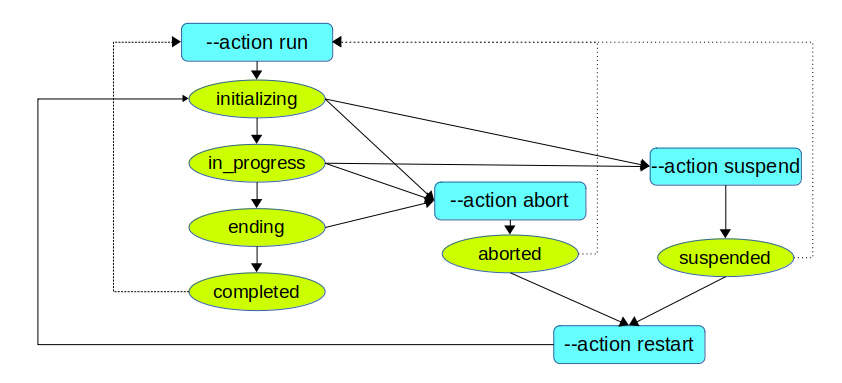
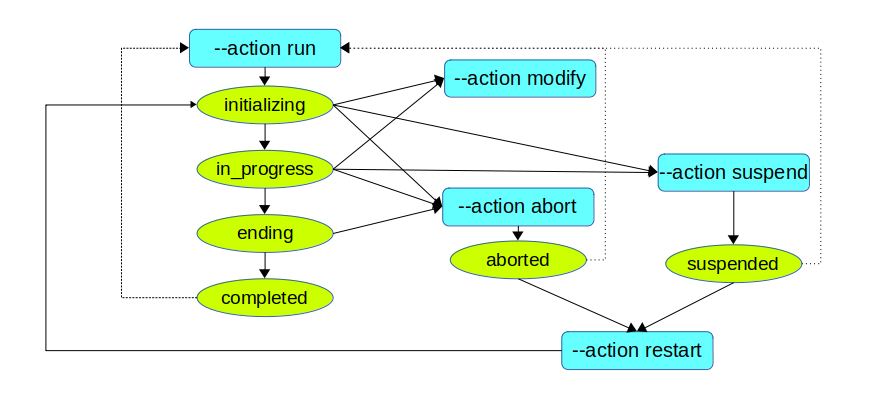
Add a 'modify' action to the scheduler. It allows to adjust some characteristics of a running batch: the maximum number of sessions, the number of sessions in cost ascending order and the comment. Setting the maximum number of sessions to 0 si equivalent to suspending the run.

diff --git a/doc/startScheduler.md b/doc/startScheduler.md
@@ -111,22 +111,17 @@ This chart shows the actions that can be performed on a batch run and its possib
 
 All these actions can be performed easily with the web client. The paragraphs below explain how to proceed in command line terminal.
 
-### Change the number of sessions
+### Change run characteristics
 
-There is no command to dynamically change the number of sessions of a running batch. But this can be achieved using a SQL statement. Once connected to the administration database, execute the following statement:
+The maximum number of sessions, the number of sessions in cost ascending order and/or the run comment can be modified while the run is in progress. To do this, just type the following command:
 
+```sh
+perl data2pg.pl --action modify ...
 ```
-SET search_path = \<data2pg_admin installation schema\>;
-UPDATE run SET run_max_sessions = s, run_asc_sessions = a WHERE run_id = iii;
-```
 
-Where:
+The new values can be set either in a modified configuration file or in the command line options (--sessions --asc_sessions and --comment), the later always overiding the former.
 
-  * s is the requested maximum number of sessions;
-  * a is the requested number of sessions with steps allocated in ascending cost order (with a <= s);
-  * iii is the run identifier.
-
-The scheduler reads this table every 30 seconds and adjusts the number of opened sessions if needed. If new sessions are requested, they are opened immediately. If the new maximum number of sessions is lower than the previous one, exceeding sessions will be closed once their current step is completed.
+The scheduler reads the information about the number of sessions every 30 seconds and adjusts the number of opened sessions if needed. Then, if new sessions are requested, they are opened immediately. If the new maximum number of sessions is lower than the previous one, exceeding sessions will be closed once their current step is completed.
 
 Note that setting the maximum number of sessions to 0 is equivalent to suspend the run.
 
